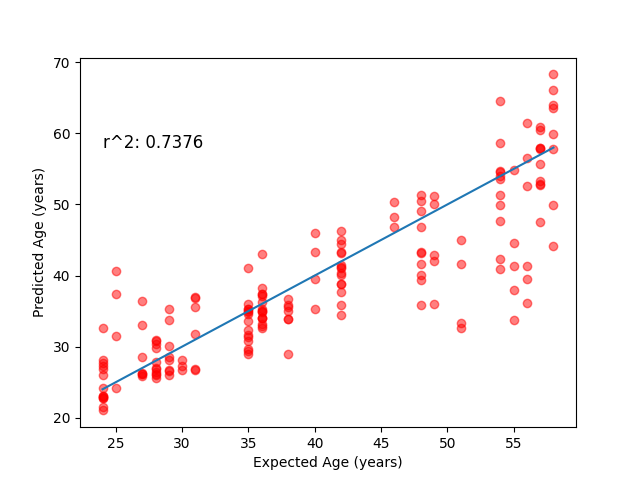
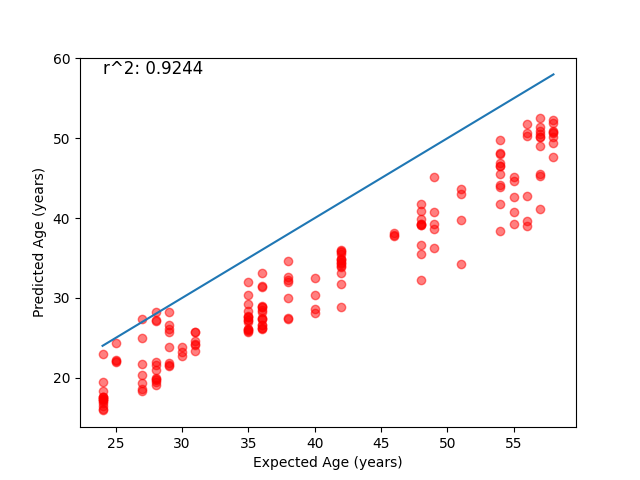
Add files via upload

diff --git a/tissue_specific/conv_model_classification_singletiss.py b/tissue_specific/conv_model_classification_singletiss.py
@@ -1,0 +1,151 @@
+import tensorflow as tf
+import numpy as np
+import pandas as pd
+import os
+import glob
+from natsort import natsorted, natsort_keygen
+import matplotlib.pyplot as plt
+import PIL
+import cv2
+import json
+
+from tensorflow import keras
+from tensorflow.keras import layers, datasets, models, Model
+from tensorflow.keras.models import Sequential
+from tensorflow.keras.callbacks import EarlyStopping, ModelCheckpoint, ReduceLROnPlateau
+import pathlib
+import time
+
+from sklearn.model_selection import LeaveOneOut,KFold, train_test_split,StratifiedKFold,StratifiedShuffleSplit
+from sklearn.preprocessing import LabelEncoder
+
+from CNN_regression_model import fully_connected_CNN
+
+from tqdm import tqdm
+
+print('Loading in metadata')
+imgs_location = '/home/u23/samfreitas/NN_trainings/IGTD/Results/Test_1_std_sorted/data'
+metadata = pd.read_csv('/home/u23/samfreitas/NN_trainings/IGTD/Data/experimentDesign.csv')
+
+sorted_metadata = metadata.copy(deep=True)
+sorted_metadata = sorted_metadata.sort_values(by = 'sample_id',key = natsort_keygen())
+
+unique_tissues = np.unique(sorted_metadata['tissue'].values)
+output = pd.DataFrame()
+
+for this_tissue in unique_tissues:
+
+    # attempt with using single tissue data
+    single_tissue_index = (sorted_metadata['tissue'].values == this_tissue)
+    metadata_single_tissue = sorted_metadata.iloc[single_tissue_index]
+    extracted_metadata = metadata_single_tissue['age'].values
+    encoded_labels = extracted_metadata
+    train_y = extracted_metadata
+    num_classes = 1
+
+    imgs_list = natsorted(glob.glob(os.path.join(imgs_location,'*.txt')))
+
+    print('Loading in data from txt files')
+    train_X = []
+    for count in tqdm(range(len(imgs_list))):
+
+        this_img = imgs_list[count]
+
+        # this was with single tissue sample
+        img_sample_id = os.path.basename(os.path.splitext(this_img)[0])[1:-5]
+        if img_sample_id in metadata_single_tissue['sample_id'].values:
+            temp_img = np.loadtxt(this_img, comments="#", delimiter="\t", unpack=False)
+            # temp_img = np.stack((temp_img,)*3, axis=-1)
+            train_X.append(temp_img)
+
+    train_X = np.asarray(train_X)
+
+    skf = StratifiedKFold(n_splits=3)
+
+    print('Building models')
+
+    kfold_counter = 1
+    for train_index, test_index in skf.split(train_X, train_y):
+
+        model = fully_connected_CNN(height=100,width=100,channels=1,use_dropout=True)
+
+        model.compile(optimizer=tf.keras.optimizers.Adam(learning_rate = 0.01), # learning_rate = 0.1
+                    # loss=tf.keras.losses.CategoricalCrossentropy(),
+                    loss=tf.keras.losses.MeanAbsoluteError(),
+                    # metrics = ['accuracy',AUC_PR,AUC_ROC]
+                    metrics = ['accuracy']
+                    )
+
+        checkpoint_path = "model_weights/cp.ckpt" 
+        checkpoint_dir = os.path.dirname(checkpoint_path)
+
+        epochs = 500
+        checkpoint = ModelCheckpoint(filepath = checkpoint_path,monitor = "val_loss", mode = 'min',
+            save_best_only = True,verbose=1,save_weights_only=True) #use checkpoint instead of sequential() module
+        earlystop = EarlyStopping(monitor = 'val_loss', min_delta=0.01,
+            patience = 500, verbose = 1,restore_best_weights = True) #stop at best epoch
+        reduce_lr = ReduceLROnPlateau(monitor = 'val_loss', factor=0.5,
+            patience=50, min_lr=0.000001, verbose = 1)
+
+        # first split into training and testing datasets
+        kfold_X = train_X[train_index]
+        kfold_y = train_y[train_index]
+        # this test is not going to be used in the training
+        kfold_test = (train_X[test_index],train_y[test_index])
+
+        print("fitting model", this_tissue, kfold_counter)
+
+        # fit the model
+        history = model.fit(
+            kfold_X,kfold_y,
+            validation_data = kfold_test,
+            epochs=epochs,
+            batch_size = test_index.size,
+            callbacks= [earlystop, checkpoint],
+            verbose = 0
+        )
+
+        # load in the best checkpoint
+        model.load_weights(checkpoint_path)
+
+        # evaluate results
+        eval_result = model.evaluate(train_X,train_y,steps=1,return_dict = True,batch_size = 1) #get evaluation results
+        eval_result['tissue'] = this_tissue
+        eval_result['Kfold'] = kfold_counter
+        
+        # export evaluation reults to a dict and then print it
+        res = dict()
+        for key in eval_result: res[key] = eval_result[key]
+        print("Overall performance")
+        print(res)
+
+        plt.figure(figsize = (12,12), dpi = 96)
+        for this_key in list(history.history.keys()):
+            b = history.history[this_key]
+            plt.plot(b,label = this_key)
+
+        plt.legend(loc="upper left")
+        plt.ylim([0,25])
+        plt.title(json.dumps(res))
+        plt.savefig(fname= str(this_tissue) + "_training_history_" + str(kfold_counter) + ".png")
+        # plt.show()
+
+        plt.close('all')
+
+        kfold_counter = kfold_counter + 1
+
+        print("Examples")
+        for i in range(10):
+            print(train_y[i],model.predict(np.expand_dims(train_X[i],axis = 0)).squeeze()) 
+
+        eval_result['total_error'] = np.sum(np.abs(train_y - model.predict(train_X).squeeze() ))
+
+        output = output.append(eval_result, ignore_index=True)
+
+        del model
+
+        output.to_csv("output.csv",index = False)
+
+    
+
+print('eof')

diff --git a/cnn_model.py b/cnn_model.py
@@ -10,11 +10,18 @@ import matplotlib.pyplot as plt
 from sklearn.preprocessing import MinMaxScaler
 from natsort import natsorted, natsort_keygen
 from CNN_regression_model import fully_connected_CNN_v2, plot_model
+from sklearn.preprocessing import PowerTransformer
 
 # (X,y), (X_val,y_val), (test_X,test_y) = load_rotated_minst_dataset(seed = 50)
 
 print('reading in metadata')
-data_path = '/groups/sutphin/NN_trainings/IGTD/Results/Blood;PBMC_2/data'
+
+this_tissue = 'Blood;PBMC'
+# this_tissue = 'Adipose;'
+
+dataset = '_1_900'
+
+data_path = '/groups/sutphin/NN_trainings/IGTD/Results/' + this_tissue + dataset +'/data'
 metadata_path = '/home/u23/samfreitas/NN_trainings/CNN_regression/dense_regression/meta_filtered.csv'
 imgs_list = natsorted(glob.glob(os.path.join(data_path,'*.txt')))
 metadata = pd.read_csv(metadata_path)
@@ -25,14 +32,13 @@ metadata_healthy = metadata.iloc[healthy_idx,:]
 SRR_values = metadata_healthy['SRR.ID'].values
 unique_tissues = np.unique(metadata_healthy['Tissue'].values)
 
-this_tissue = 'Blood;PBMC'
-
 # this_tissue = unique_tissues[2]
 print('Current tissue',this_tissue)
 
 X = []
 y = []
 print('reading in data')
+PT = PowerTransformer()
 for count in tqdm.tqdm(range(len(imgs_list))):
 
     this_img = imgs_list[count]
@@ -43,7 +49,7 @@ for count in tqdm.tqdm(range(len(imgs_list))):
     if (this_metadata['Tissue'].values == this_tissue).squeeze():
         y.append(metadata_healthy.iloc[this_imgs_meta_idx,:]['Age'].values.squeeze())
         temp_img = np.loadtxt(this_img, comments='#',delimiter="\t",unpack=False)
-        X.append(temp_img/np.max(temp_img))
+        X.append((temp_img - np.min(temp_img))/(np.max(temp_img) - np.min(temp_img)))#/np.max(temp_img))
 
 if not y:
     print('BAD LIST')
@@ -73,7 +79,7 @@ model = fully_connected_CNN_v2(height=X.shape[1],width=X.shape[2],use_dropout=Tr
 # model = ResNet50v2_regression(height=X.shape[1],width=X.shape[2],use_dropout=False)
 plot_model(model)
 
-epochs = 500
+epochs = 3500
 
 save_checkpoints = tf.keras.callbacks.ModelCheckpoint(
     filepath = 'model_weights/cp.ckpt', monitor = 'val_loss',
@@ -81,7 +87,7 @@ save_checkpoints = tf.keras.callbacks.ModelCheckpoint(
 redule_lr = tf.keras.callbacks.ReduceLROnPlateau(
     monitor = 'val_loss', factor = 0.1, patience = 250, min_lr = 0.0000001, verbose = 1)
 earlystop = tf.keras.callbacks.EarlyStopping(
-    monitor = 'val_loss',min_delta = 0.01,patience = 250, verbose = 1)
+    monitor = 'val_loss',min_delta = 0.01,patience = epochs, verbose = 1)
 # optimizer = tf.keras.optimizers.RMSprop(momentum=0.75)#, momentum=0.9)
 optimizer = tf.keras.optimizers.Adam()
 
@@ -99,7 +105,7 @@ model.compile(optimizer=optimizer,loss='MAE',metrics=['MSE'])
 
 history = model.fit(X_train,y_train,
     validation_data = (X_val,y_val),
-    batch_size=1,epochs=epochs,
+    batch_size=64,epochs=epochs,
     callbacks=[save_checkpoints,earlystop,lr_scheduler],
     verbose=1)
 
@@ -120,7 +126,7 @@ cor_xy = cor_matrix[0,1]
 r_squared = round(cor_xy**2,4)
 print(r_squared)
 
-model.save('compiled_models/' + str(r_squared)[2:])
+model.save('compiled_models/' + str(r_squared)[2:] + this_tissue + dataset )
 
 plt.scatter(y_norm,predicted,color = 'r',alpha=0.5)
 plt.plot(np.linspace(np.min(y_norm), np.max(y_norm)),np.linspace(np.min(y_norm), np.max(y_norm)))

diff --git a/dense_regression/dense_regression.py b/dense_regression/dense_regression.py
@@ -10,27 +10,53 @@ import pandas as pd
 from sklearn.preprocessing import MinMaxScaler
 from dense_model import fully_connected_dense_model
 import json
+from scipy import stats
 
 # set up variables 
-num = 784
+num = 1024
+
+def idx_by_spearman_coef(data,metadata): # return the sorted calues by the smallest p values accorind to the spearman coefficient
+
+    ages = np.asarray(metadata['Age'].values)
+    output = dict()
+    inital_gene_order = list(data.columns)
+    for count,this_gene in enumerate(inital_gene_order):
+        these_points = data[this_gene].values
+        sprmn_coef = stats.spearmanr(ages,these_points)
+        output[this_gene] = [sprmn_coef.correlation,sprmn_coef.pvalue]
+    df = pd.DataFrame.from_dict(output,orient = 'index', columns = ['Spearman_coef','p-value'])
+    df = df.sort_values(['p-value'], ascending = True)
+    sorted_gene_order = list(df.index)
+    idx = np.zeros(shape = (1,len(sorted_gene_order))).squeeze()
+    for count,this_gene in enumerate(sorted_gene_order):
+        idx[count] = inital_gene_order.index(this_gene)
+    idx = idx.astype(np.int64)
+
+    return idx,df
 
 print('loading in data')
 data = pd.read_csv('dense_regression/raw_filtered_rotated.csv',header=0, index_col=0)
 metadata = pd.read_csv('dense_regression/meta_filtered.csv',header=0, index_col=0)
 
 print('parsing data')
-single_tissue_index = metadata['Healthy'].values == True
-data = data.iloc[single_tissue_index,:]
-data_std = data.std()
-sorted_std_idx_ascend = np.argsort(data_std.values)
-data = data.iloc[:, sorted_std_idx_ascend[-num:]]
+this_tissue = 'Blood;PBMC'
+healthy_index = metadata['Healthy'].values == True
+tissue_index = metadata['Tissue'].values == this_tissue
 
+single_tissue_index = healthy_index*tissue_index
+data = data.iloc[single_tissue_index,:]
 metadata_healthy = metadata.iloc[single_tissue_index,:]
+
+sprt_idx,sort_help = idx_by_spearman_coef(data,metadata_healthy)
+data = data.iloc[:, sprt_idx[:num]]
+# data_std = data.std()
+# sorted_std_idx_ascend = np.argsort(data_std.values)
+# data = data.iloc[:, sorted_std_idx_ascend[-num:]]
+
 
 SRR_values = metadata_healthy['SRR.ID'].values
 unique_tissues = np.unique(metadata_healthy['Tissue'].values)
 
-this_tissue = 'Blood;PBMC'
 print('Current tissue',this_tissue)
 
 X = []
@@ -66,7 +92,7 @@ y_train = y_norm[train_idx]
 X_val = X_norm[val_idx]
 y_val = y_norm[val_idx]
 
-del data, data_std, metadata, metadata_healthy, single_tissue_index, sorted_std_idx_ascend, SRR_values, this_metadata, this_imgs_meta_idx, srr_id, this_data
+# del data, metadata, metadata_healthy, single_tissue_index, sorted_std_idx_ascend, SRR_values, this_metadata, this_imgs_meta_idx, srr_id, this_data
 
 print('Setting up model')
 model = fully_connected_dense_model(num_features = num, use_dropout=True)
@@ -81,7 +107,7 @@ save_checkpoints = tf.keras.callbacks.ModelCheckpoint(
 redule_lr = tf.keras.callbacks.ReduceLROnPlateau(
     monitor = 'val_loss', factor = 0.1, patience = 25, min_lr = 0.0000001, verbose = 1)
 earlystop = tf.keras.callbacks.EarlyStopping(
-    monitor = 'val_loss',min_delta = 0.01,patience = 10000, verbose = 1)
+    monitor = 'val_loss',min_delta = 0.01,patience = 500, verbose = 1)
 
 def scheduler(epoch, lr):
     if epoch < 100:

diff --git a/dense_regression/dense_regression_use.py b/dense_regression/dense_regression_use.py
@@ -9,23 +9,46 @@ import tensorflow as tf
 import numpy as np
 import pandas as pd
 from sklearn.preprocessing import MinMaxScaler
+from scipy import stats
 from dense_model import fully_connected_dense_model
 
 # set up variables 
-num = 784
+num = 1024
+
+def idx_by_spearman_coef(data,metadata): # return the sorted calues by the smallest p values accorind to the spearman coefficient
+
+    ages = np.asarray(metadata['Age'].values)
+    output = dict()
+    inital_gene_order = list(data.columns)
+    for count,this_gene in enumerate(inital_gene_order):
+        these_points = data[this_gene].values
+        sprmn_coef = stats.spearmanr(ages,these_points)
+        output[this_gene] = [sprmn_coef.correlation,sprmn_coef.pvalue]
+    df = pd.DataFrame.from_dict(output,orient = 'index', columns = ['Spearman_coef','p-value'])
+    df = df.sort_values(['p-value'], ascending = True)
+    sorted_gene_order = list(df.index)
+    idx = np.zeros(shape = (1,len(sorted_gene_order))).squeeze()
+    for count,this_gene in enumerate(sorted_gene_order):
+        idx[count] = inital_gene_order.index(this_gene)
+    idx = idx.astype(np.int64)
+
+    return idx,df
 
 print('loading in data')
 data = pd.read_csv('dense_regression/raw_filtered_rotated.csv',header=0, index_col=0)
 metadata = pd.read_csv('dense_regression/meta_filtered.csv',header=0, index_col=0)
 
 print('parsing data')
-single_tissue_index = metadata['Healthy'].values == True
-data = data.iloc[single_tissue_index,:]
-data_std = data.std()
-sorted_std_idx_ascend = np.argsort(data_std.values)
-data = data.iloc[:, sorted_std_idx_ascend[-num:]]
+this_tissue = 'Blood;PBMC'
+healthy_index = metadata['Healthy'].values == True
+tissue_index = metadata['Tissue'].values == this_tissue
 
+single_tissue_index = healthy_index*tissue_index
+data = data.iloc[single_tissue_index,:]
 metadata_healthy = metadata.iloc[single_tissue_index,:]
+
+sprt_idx,sort_help = idx_by_spearman_coef(data,metadata_healthy)
+data = data.iloc[:, sprt_idx[:num]]
 
 SRR_values = metadata_healthy['SRR.ID'].values
 unique_tissues = np.unique(metadata_healthy['Tissue'].values)
@@ -53,7 +76,7 @@ MM = MinMaxScaler()
 X_norm = MM.fit_transform(X_raw)
 y_norm = y_raw
 
-del data, data_std, metadata, metadata_healthy, single_tissue_index, sorted_std_idx_ascend, SRR_values, this_metadata, this_imgs_meta_idx, srr_id, this_data
+# del data, metadata, metadata_healthy, single_tissue_index, SRR_values, this_metadata, this_imgs_meta_idx, srr_id, this_data
 
 print('Setting up model')
 model = fully_connected_dense_model(num_features = num, use_dropout=False)
@@ -76,11 +99,11 @@ cor_xy = cor_matrix[0,1]
 r_squared = round(cor_xy**2,4)
 print(r_squared)
 
-model.save('dense_regression/compiled_models/' + str(r_squared)[2:])
+model.save('dense_regression/compiled_models/' + str(r_squared)[2:] + this_tissue + '_' + str(num))
 
 plt.scatter(y_norm,predicted,color = 'r',alpha=0.25)
 plt.plot(np.linspace(np.min(y_norm), np.max(y_norm)),np.linspace(np.min(y_norm), np.max(y_norm)))
-plt.text(0,1,"r^2: " + str(r_squared),fontsize = 12)
+plt.text(np.min(y_norm),np.max(y_norm),"r^2: " + str(r_squared),fontsize = 12)
 plt.xlabel('Expected Age (years)')
 plt.ylabel('Predicted Age (years)')
 
